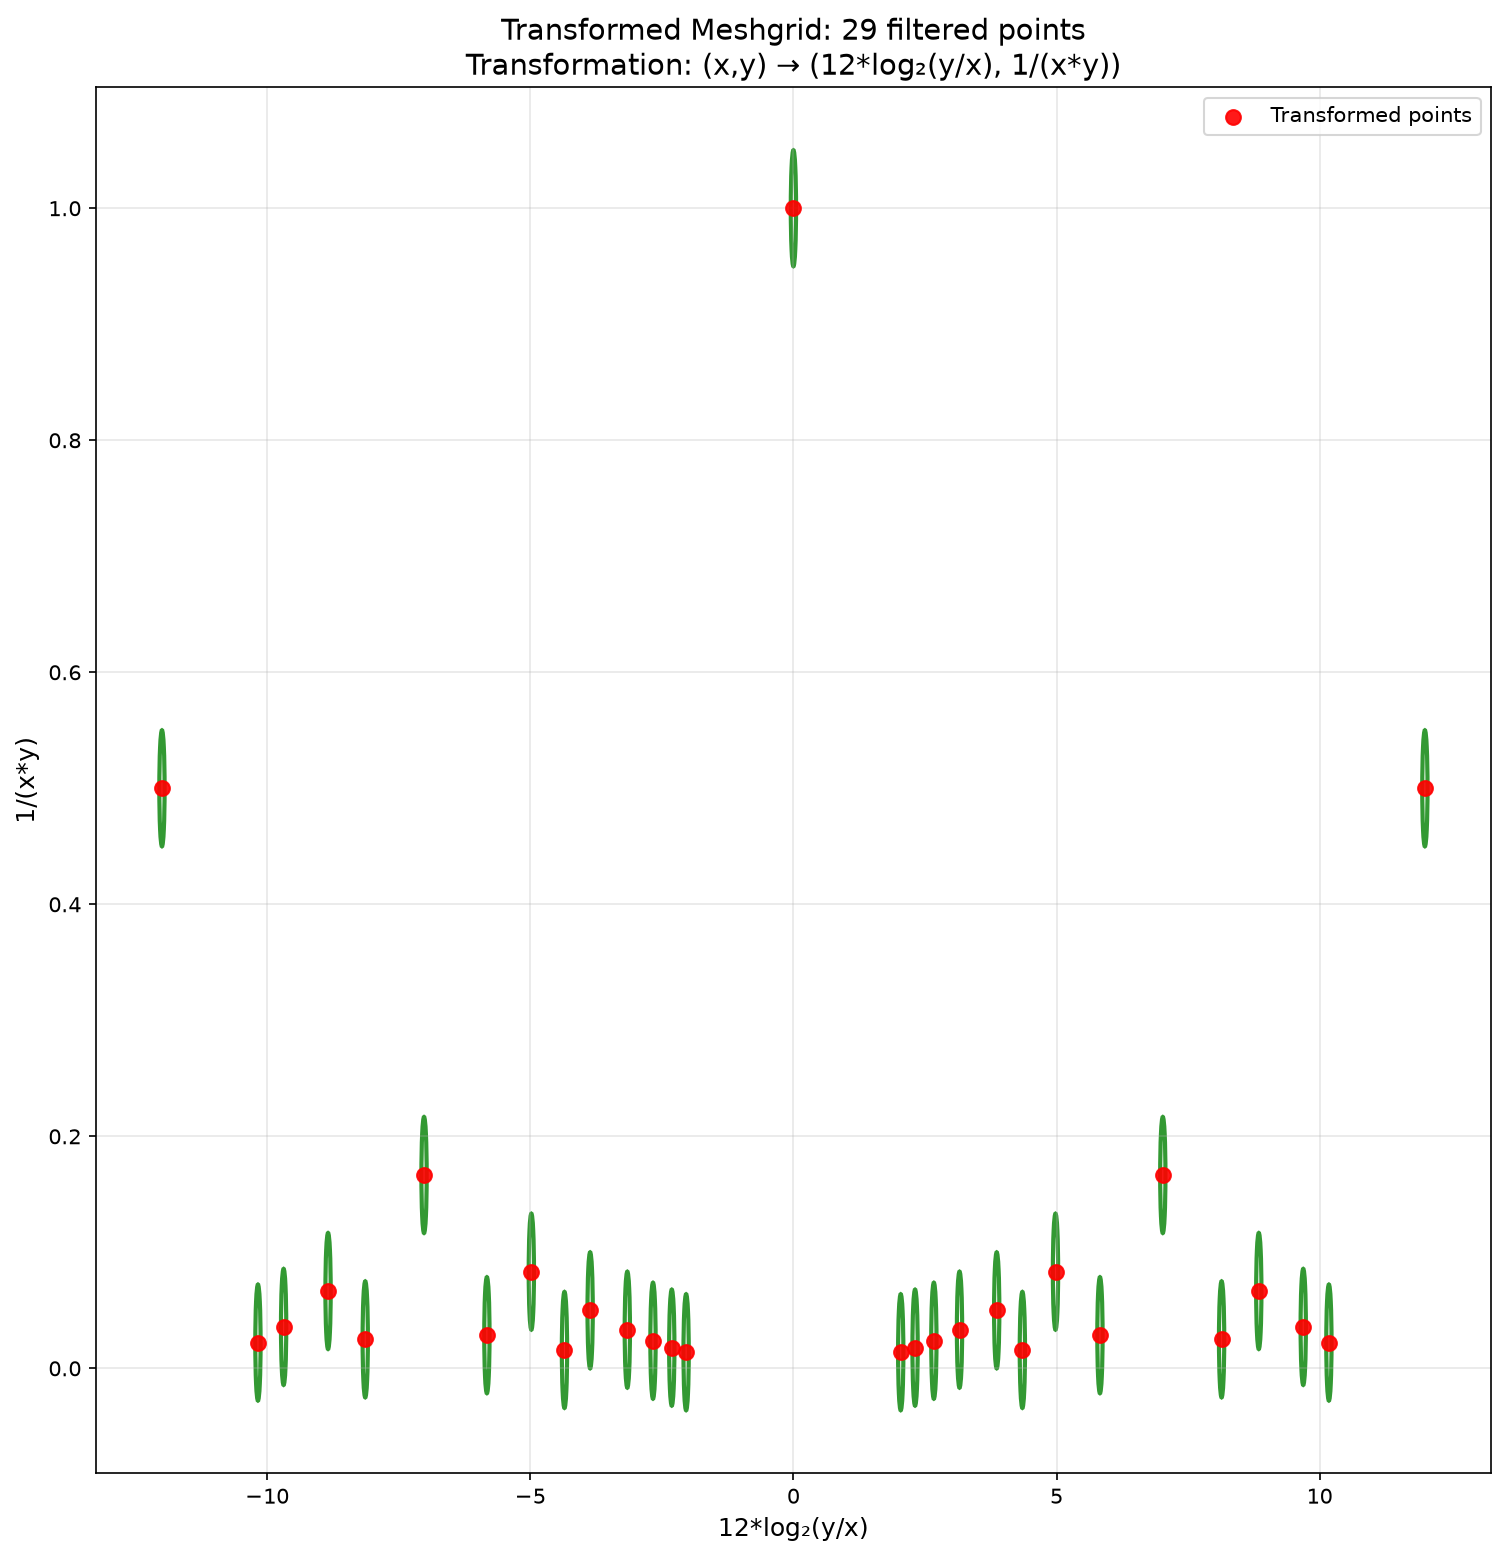
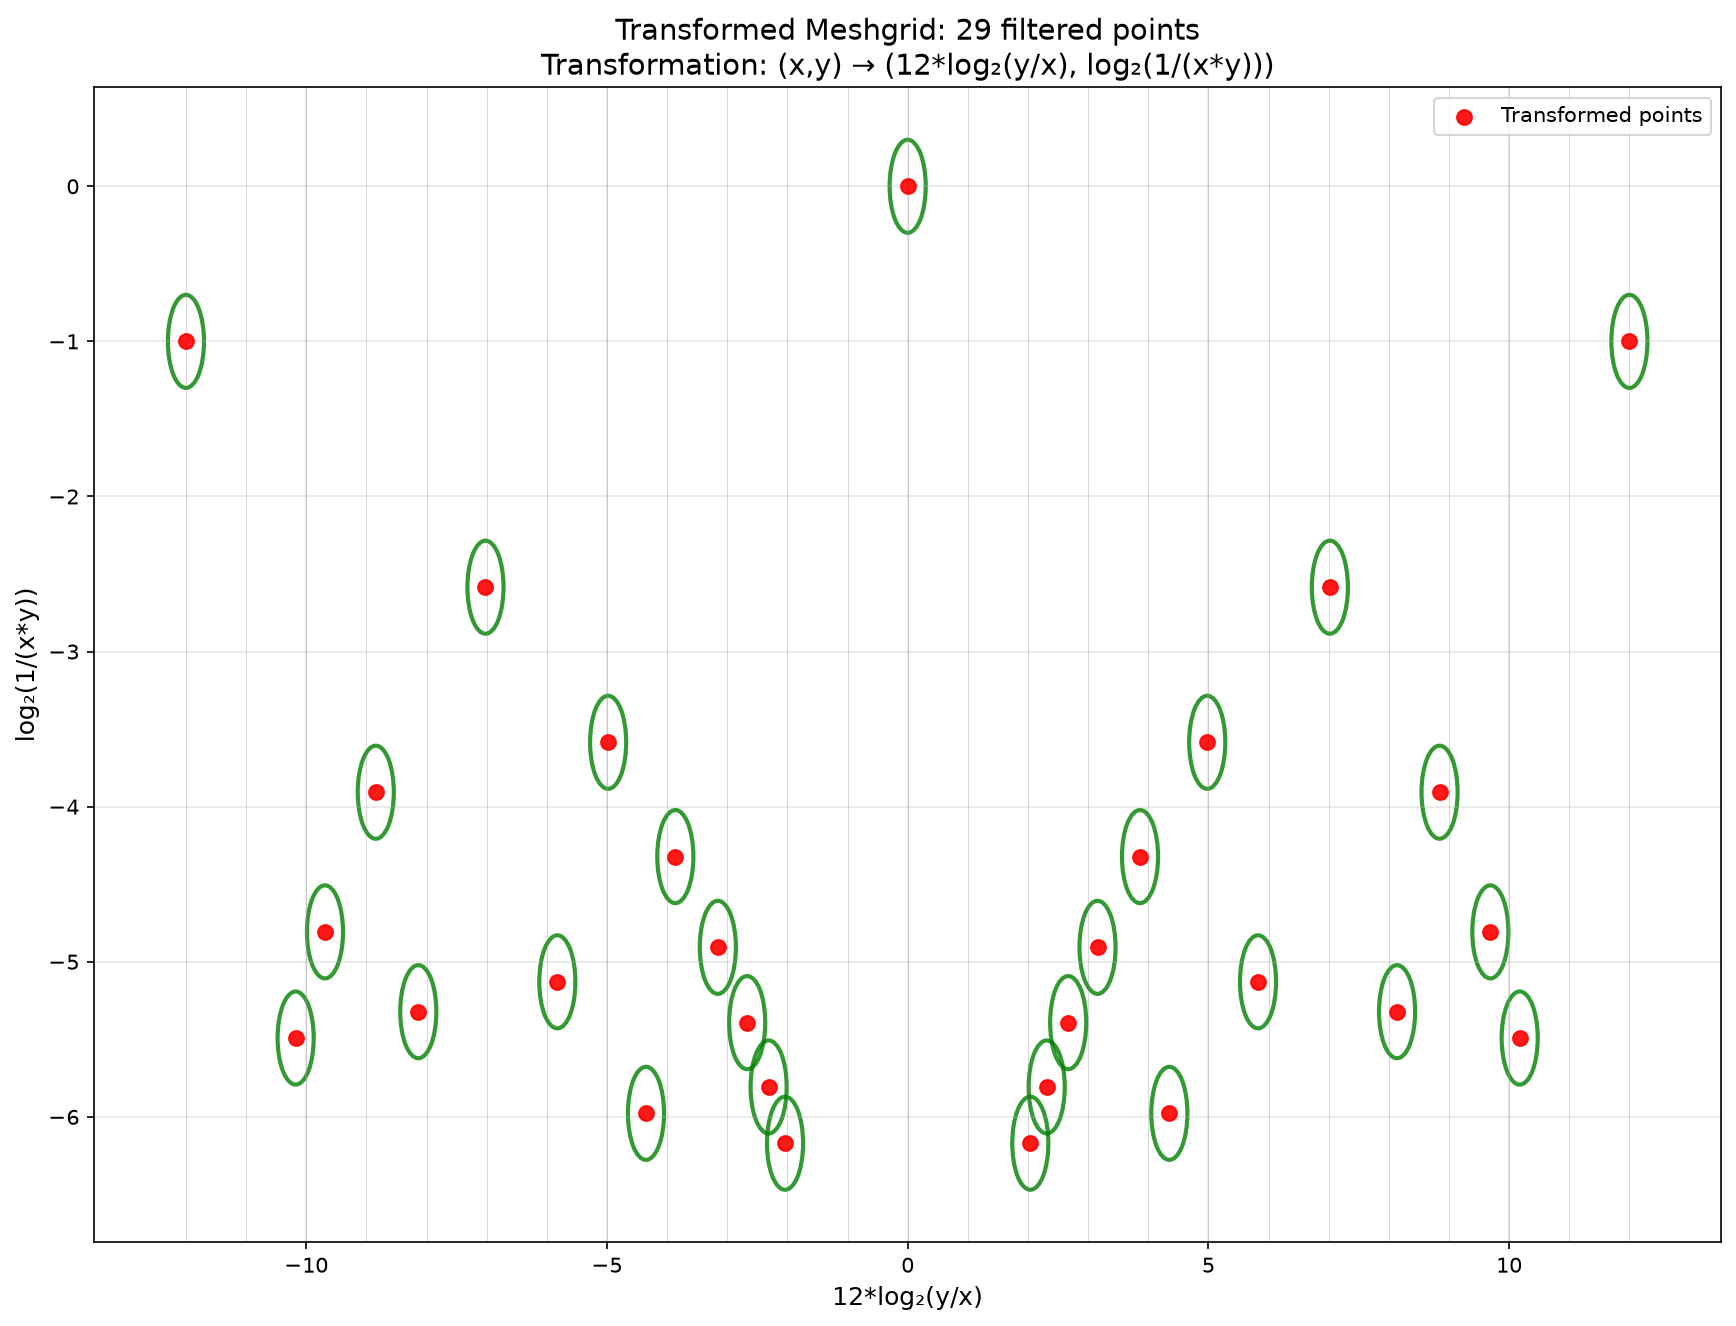
Update transformation to log scale and add vertical grid lines

diff --git a/tmo/meshgrid_transformed.py b/tmo/meshgrid_transformed.py
@@ -37,31 +37,35 @@ for i in range(N):
         filtered_x.append(x_val)
         filtered_y.append(y_val)
 
-# Transform coordinates: (x, y) -> (12*log2(y/x), 1/(x*y))
+# Transform coordinates: (x, y) -> (12*log2(y/x), log2(1/(x*y)))
 transformed_x = []
 transformed_y = []
 
 for x_val, y_val in zip(filtered_x, filtered_y):
     new_x = 12 * log2(y_val / x_val)
-    new_y = 1 / (x_val * y_val)
+    new_y = log2(1 / (x_val * y_val))
     transformed_x.append(new_x)
     transformed_y.append(new_y)
 
 # Create plot
-fig, ax = plt.subplots(figsize=(12, 12))
+fig, ax = plt.subplots(figsize=(14, 10))
+
+# Add vertical lines x=k for k in range(-12, 13)
+for k in range(-12, 13):
+    ax.axvline(x=k, color='gray', linewidth=0.5, alpha=0.3, linestyle='-')
 
 # Plot the scatter points
 ax.scatter(transformed_x, transformed_y, s=50, color='red', alpha=0.9, zorder=5, label='Transformed points')
 
-# Draw circles for transformed points (green color, same radius in new coordinates)
+# Draw circles for transformed points (green color, small fixed radius in new coordinates)
 for tx_val, ty_val in zip(transformed_x, transformed_y):
-    radius = 0.05  # Small fixed radius in transformed space for visibility
+    radius = 0.3  # Small fixed radius in transformed space for visibility
     circle = plt.Circle((tx_val, ty_val), radius, fill=False, edgecolor='green', alpha=0.8, linewidth=2)
     ax.add_patch(circle)
 
 ax.set_xlabel("12*log₂(y/x)", fontsize=12)
-ax.set_ylabel("1/(x*y)", fontsize=12)
-ax.set_title(f"Transformed Meshgrid: {len(filtered_x)} filtered points\nTransformation: (x,y) → (12*log₂(y/x), 1/(x*y))", fontsize=14)
+ax.set_ylabel("log₂(1/(x*y))", fontsize=12)
+ax.set_title(f"Transformed Meshgrid: {len(filtered_x)} filtered points\nTransformation: (x,y) → (12*log₂(y/x), log₂(1/(x*y)))", fontsize=14)
 ax.grid(True, alpha=0.3)
 ax.legend(loc='upper right', fontsize=10)
 
